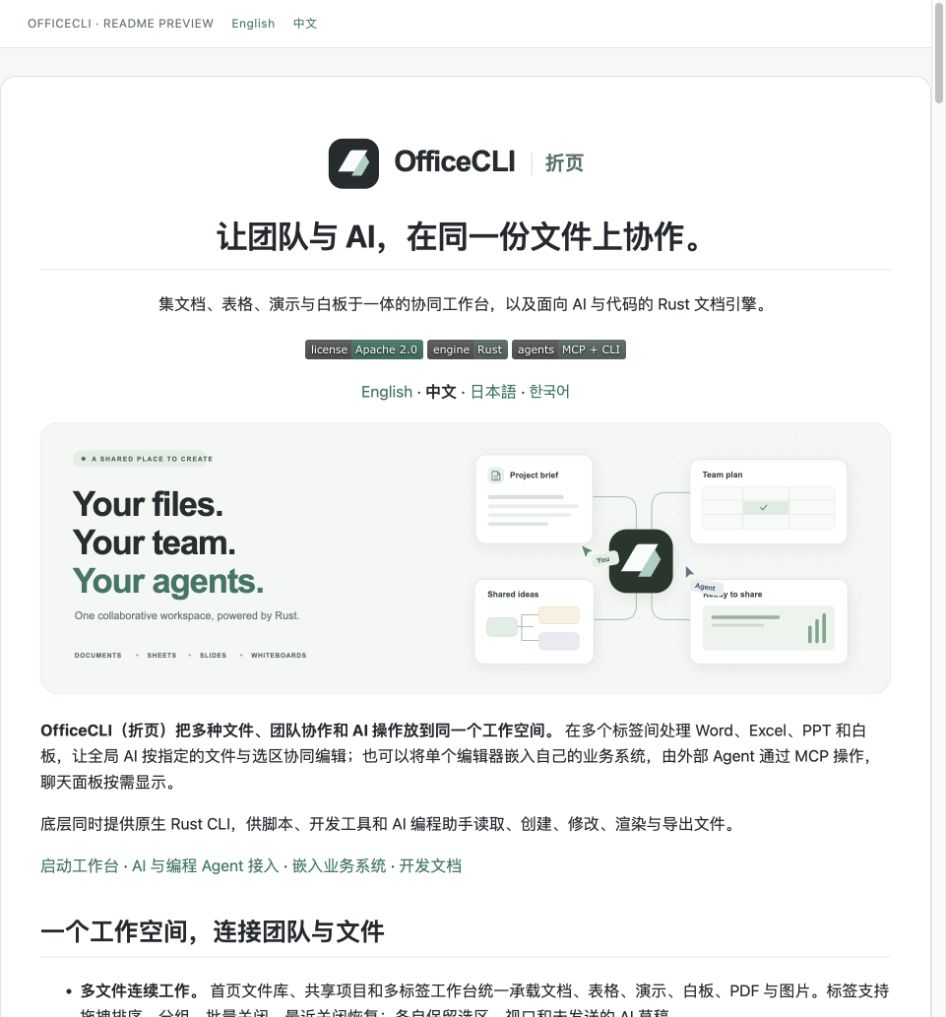
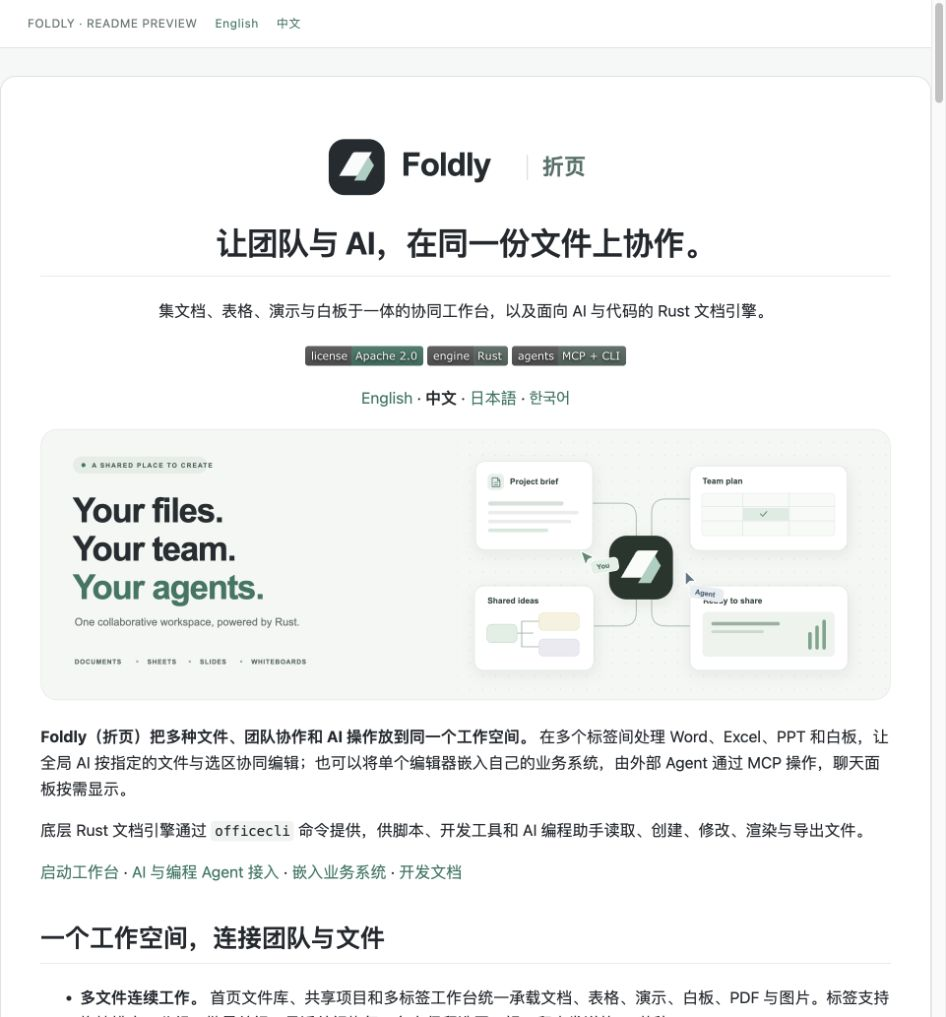
chore: rename the project to Foldly
Update README branding, original SVG assets, installer URLs and SDK/skill references to RainLib/Foldly while preserving the officecli command and package names.

Validation: 112 local README links and all JSON, JavaScript and TSX examples parse; six product screenshot checksums unchanged; English and Chinese browser previews load without broken images or horizontal overflow; Bash/Python/SVG syntax checks pass. Repository ID is unchanged and stars remain 22.

diff --git a/sdk/python/officecli.py b/sdk/python/officecli.py
@@ -34,7 +34,7 @@ import subprocess
 _IS_WIN = sys.platform.startswith("win")
 _builtin_open = open  # preserved; this module defines its own open()
 
-_INSTALL_URL = "https://raw.githubusercontent.com/RainLib/OfficeCli-rust/refs/heads/main/install.sh"
+_INSTALL_URL = "https://raw.githubusercontent.com/RainLib/Foldly/refs/heads/main/install.sh"
 _MISSING_CLI = (
     "officecli CLI not found: {bin!r} is not on PATH nor in the default install "
     "location (~/.local/bin). This SDK only forwards commands to the officecli "
@@ -297,7 +297,7 @@ def install():
     if _IS_WIN:
         raise OfficeCliError(1,
             "Automatic install isn't supported on Windows. "
-            "Download officecli from https://github.com/RainLib/OfficeCli-rust/releases "
+            "Download officecli from https://github.com/RainLib/Foldly/releases "
             "and put it on PATH.")
     print(f"Installing officecli via {_INSTALL_URL} ...", file=sys.stderr)
     r = subprocess.run(["bash", "-c", f"curl -fsSL {_INSTALL_URL} | bash"])

diff --git a/README.md b/README.md
@@ -1,5 +1,5 @@
 <p align="center">
-  <img src="docs/assets/readme/officecli-logo.svg" width="280" alt="OfficeCLI · 折页" />
+  <img src="docs/assets/readme/foldly-logo.svg" width="280" alt="Foldly · 折页" />
 </p>
 
 <h1 align="center">Documents for teams. Tools for agents.</h1>
@@ -14,11 +14,11 @@
 
 <p align="center"><b>English</b> · <a href="README_zh.md">中文</a> · <a href="README_ja.md">日本語</a> · <a href="README_ko.md">한국어</a></p>
 
-![OfficeCLI connects documents, worksheets, slides and whiteboards](docs/assets/readme/officecli-banner.svg)
+![Foldly connects documents, worksheets, slides and whiteboards](docs/assets/readme/foldly-banner.svg)
 
-**OfficeCLI brings documents, spreadsheets, presentations and whiteboards into one workspace.** Open several files, work with teammates, and let a global AI assistant operate on the files and selections you choose. Embed an editor in your own product, or connect an external agent through MCP without showing a chat panel.
+**Foldly brings documents, spreadsheets, presentations and whiteboards into one workspace.** Open several files, work with teammates, and let a global AI assistant operate on the files and selections you choose. Embed an editor in your own product, or connect an external agent through MCP without showing a chat panel.
 
-The same project also provides a native Rust CLI for reading, creating, editing and exporting files from scripts, developer tools and agent workflows.
+Its Rust document engine is exposed through the `officecli` command for reading, creating, editing and exporting files from scripts, developer tools and agent workflows.
 
 [Try the workspace](#run-the-workspace) · [Connect an agent](#connect-ai-and-coding-agents) · [Embed an editor](#embed-in-your-product) · [Documentation](#documentation)
 
@@ -251,4 +251,4 @@ See [CONTRIBUTING.md](CONTRIBUTING.md) for changes and validation requirements. 
 
 ## License and acknowledgements
 
-[Apache License 2.0](LICENSE). OfficeCLI's command model originated in [iOfficeAI/OfficeCLI](https://github.com/iOfficeAI/OfficeCLI). This repository develops a Rust engine and collaborative workspace, using projects including Excalidraw, Yjs, Tiptap and Univer under their respective licenses.
+[Apache License 2.0](LICENSE). The `officecli` command model originated in [iOfficeAI/OfficeCLI](https://github.com/iOfficeAI/OfficeCLI). This repository develops a Rust engine and collaborative workspace, using projects including Excalidraw, Yjs, Tiptap and Univer under their respective licenses.

diff --git a/README_zh.md b/README_zh.md
@@ -1,5 +1,5 @@
 <p align="center">
-  <img src="docs/assets/readme/officecli-logo.svg" width="280" alt="OfficeCLI · 折页" />
+  <img src="docs/assets/readme/foldly-logo.svg" width="280" alt="Foldly · 折页" />
 </p>
 
 <h1 align="center">让团队与 AI，在同一份文件上协作。</h1>
@@ -14,11 +14,11 @@
 
 <p align="center"><a href="README.md">English</a> · <b>中文</b> · <a href="README_ja.md">日本語</a> · <a href="README_ko.md">한국어</a></p>
 
-![OfficeCLI：连接文档、表格、演示与白板](docs/assets/readme/officecli-banner.svg)
+![Foldly：连接文档、表格、演示与白板](docs/assets/readme/foldly-banner.svg)
 
-**OfficeCLI（折页）把多种文件、团队协作和 AI 操作放到同一个工作空间。** 在多个标签间处理 Word、Excel、PPT 和白板，让全局 AI 按指定的文件与选区协同编辑；也可以将单个编辑器嵌入自己的业务系统，由外部 Agent 通过 MCP 操作，聊天面板按需显示。
+**Foldly（折页）把多种文件、团队协作和 AI 操作放到同一个工作空间。** 在多个标签间处理 Word、Excel、PPT 和白板，让全局 AI 按指定的文件与选区协同编辑；也可以将单个编辑器嵌入自己的业务系统，由外部 Agent 通过 MCP 操作，聊天面板按需显示。
 
-底层同时提供原生 Rust CLI，供脚本、开发工具和 AI 编程助手读取、创建、修改、渲染与导出文件。
+底层 Rust 文档引擎通过 `officecli` 命令提供，供脚本、开发工具和 AI 编程助手读取、创建、修改、渲染与导出文件。
 
 [启动工作台](#启动工作台) · [AI 与编程 Agent 接入](#接入-ai-与编程-agent) · [嵌入业务系统](#嵌入业务系统) · [开发文档](#开发文档)
 
@@ -251,4 +251,4 @@ npm run test:workbench --prefix apps/workspace
 
 ## 开源协议与致谢
 
-采用 [Apache License 2.0](LICENSE)。OfficeCLI 的命令模型源自 [iOfficeAI/OfficeCLI](https://github.com/iOfficeAI/OfficeCLI)。本仓库发展 Rust 文档引擎与协同工作台，并使用 Excalidraw、Yjs、Tiptap、Univer 等开源项目，遵循各自许可证。
+采用 [Apache License 2.0](LICENSE)。`officecli` 的命令模型源自 [iOfficeAI/OfficeCLI](https://github.com/iOfficeAI/OfficeCLI)。本仓库发展 Rust 文档引擎与协同工作台，并使用 Excalidraw、Yjs、Tiptap、Univer 等开源项目，遵循各自许可证。

diff --git a/README_ja.md b/README_ja.md
@@ -1,12 +1,12 @@
-<p align="center"><img src="docs/assets/readme/officecli-logo.svg" width="280" alt="OfficeCLI · 折页" /></p>
+<p align="center"><img src="docs/assets/readme/foldly-logo.svg" width="280" alt="Foldly · 折页" /></p>
 
 <h1 align="center">人と AI が、同じファイルで共同作業。</h1>
 
 <p align="center"><a href="README.md">English</a> · <a href="README_zh.md">中文</a> · <b>日本語</b> · <a href="README_ko.md">한국어</a></p>
 
-![OfficeCLI collaborative workspace](docs/assets/readme/officecli-banner.svg)
+![Foldly collaborative workspace](docs/assets/readme/foldly-banner.svg)
 
-**OfficeCLI は、文書、表計算、プレゼンテーション、ホワイトボードを一つにまとめた共同編集ワークスペースです。** 複数のファイルをタブで開き、人と AI が指定されたファイルや選択範囲を編集できます。Rust 製 CLI、MCP ツール、React 埋め込みコンポーネントも提供します。
+**Foldly は、文書、表計算、プレゼンテーション、ホワイトボードを一つにまとめた共同編集ワークスペースです。** 複数のファイルをタブで開き、人と AI が指定されたファイルや選択範囲を編集できます。Rust 製 CLI、MCP ツール、React 埋め込みコンポーネントも提供します。
 
 このページは概要です。起動手順、コード例、対応範囲は [English](README.md) または [中文](README_zh.md) の完全版をご覧ください。
 

diff --git a/README_ko.md b/README_ko.md
@@ -1,12 +1,12 @@
-<p align="center"><img src="docs/assets/readme/officecli-logo.svg" width="280" alt="OfficeCLI · 折页" /></p>
+<p align="center"><img src="docs/assets/readme/foldly-logo.svg" width="280" alt="Foldly · 折页" /></p>
 
 <h1 align="center">사람과 AI가 같은 파일에서 함께 작업합니다.</h1>
 
 <p align="center"><a href="README.md">English</a> · <a href="README_zh.md">中文</a> · <a href="README_ja.md">日本語</a> · <b>한국어</b></p>
 
-![OfficeCLI collaborative workspace](docs/assets/readme/officecli-banner.svg)
+![Foldly collaborative workspace](docs/assets/readme/foldly-banner.svg)
 
-**OfficeCLI는 문서, 스프레드시트, 프레젠테이션과 화이트보드를 하나로 연결하는 협업 작업 공간입니다.** 여러 파일을 탭으로 열고, 사람과 AI가 지정된 파일 및 선택 영역을 편집할 수 있습니다. Rust CLI, MCP 도구와 React 임베드 컴포넌트도 제공합니다.
+**Foldly는 문서, 스프레드시트, 프레젠테이션과 화이트보드를 하나로 연결하는 협업 작업 공간입니다.** 여러 파일을 탭으로 열고, 사람과 AI가 지정된 파일 및 선택 영역을 편집할 수 있습니다. Rust CLI, MCP 도구와 React 임베드 컴포넌트도 제공합니다.
 
 이 페이지는 개요입니다. 전체 실행 방법, 코드 예제와 지원 범위는 [English](README.md) 또는 [中文](README_zh.md) 문서를 확인하세요.
 

diff --git a/skills/officecli-word-form/SKILL.md b/skills/officecli-word-form/SKILL.md
@@ -15,7 +15,7 @@ description: "Use this skill to create fillable Word forms (.docx) with real Con
 
 ```bash
 if ! command -v officecli >/dev/null 2>&1; then
-    curl -fsSL https://raw.githubusercontent.com/RainLib/OfficeCli-rust/main/install.sh | bash
+    curl -fsSL https://raw.githubusercontent.com/RainLib/Foldly/main/install.sh | bash
 fi
 ```
 
@@ -23,7 +23,7 @@ fi
 
 ```powershell
 if (-not (Get-Command officecli -ErrorAction SilentlyContinue)) {
-    irm https://raw.githubusercontent.com/RainLib/OfficeCli-rust/main/install.ps1 | iex
+    irm https://raw.githubusercontent.com/RainLib/Foldly/main/install.ps1 | iex
 }
 ```
 
@@ -31,7 +31,7 @@ Verify: `officecli --version`
 
 If `officecli` is still not found after first install, open a new terminal and run the verify command again.
 
-If the install command above fails (e.g. blocked by security policy, no network access, or insufficient permissions), install manually — download the binary for your platform from https://github.com/RainLib/OfficeCli-rust/releases — then re-run the verify command.
+If the install command above fails (e.g. blocked by security policy, no network access, or insufficient permissions), install manually — download the binary for your platform from https://github.com/RainLib/Foldly/releases — then re-run the verify command.
 
 ## Help-First Rule
 

diff --git a/skills/morph-ppt/SKILL.md b/skills/morph-ppt/SKILL.md
@@ -13,10 +13,10 @@ When the pptx base rules cover it, the text here says `→ see pptx v2 §X`. Rea
 
 If `officecli` is missing:
 
-- **macOS / Linux**: `curl -fsSL https://raw.githubusercontent.com/RainLib/OfficeCli-rust/main/install.sh | bash`
-- **Windows (PowerShell)**: `irm https://raw.githubusercontent.com/RainLib/OfficeCli-rust/main/install.ps1 | iex`
+- **macOS / Linux**: `curl -fsSL https://raw.githubusercontent.com/RainLib/Foldly/main/install.sh | bash`
+- **Windows (PowerShell)**: `irm https://raw.githubusercontent.com/RainLib/Foldly/main/install.ps1 | iex`
 
-Verify with `officecli --version` (open a new terminal if PATH hasn't picked up). If install fails, download a binary from https://github.com/RainLib/OfficeCli-rust/releases.
+Verify with `officecli --version` (open a new terminal if PATH hasn't picked up). If install fails, download a binary from https://github.com/RainLib/Foldly/releases.
 
 ## ⚠ Help-First Rule
 

diff --git a/skills/officecli-academic-paper/SKILL.md b/skills/officecli-academic-paper/SKILL.md
@@ -13,10 +13,10 @@ When the docx base rules cover it, the text here says `→ see docx v2 §X`. Rea
 
 If `officecli` is missing:
 
-- **macOS / Linux**: `curl -fsSL https://raw.githubusercontent.com/RainLib/OfficeCli-rust/main/install.sh | bash`
-- **Windows (PowerShell)**: `irm https://raw.githubusercontent.com/RainLib/OfficeCli-rust/main/install.ps1 | iex`
+- **macOS / Linux**: `curl -fsSL https://raw.githubusercontent.com/RainLib/Foldly/main/install.sh | bash`
+- **Windows (PowerShell)**: `irm https://raw.githubusercontent.com/RainLib/Foldly/main/install.ps1 | iex`
 
-Verify with `officecli --version` (open a new terminal if PATH hasn't picked up). If install fails, download a binary from https://github.com/RainLib/OfficeCli-rust/releases.
+Verify with `officecli --version` (open a new terminal if PATH hasn't picked up). If install fails, download a binary from https://github.com/RainLib/Foldly/releases.
 
 ## ⚠ Help-First Rule
 

diff --git a/skills/officecli-data-dashboard/SKILL.md b/skills/officecli-data-dashboard/SKILL.md
@@ -11,10 +11,10 @@ A dashboard is not "a spreadsheet with charts". It is a composition: **one Dashb
 
 If `officecli` is missing:
 
-- **macOS / Linux**: `curl -fsSL https://raw.githubusercontent.com/RainLib/OfficeCli-rust/main/install.sh | bash`
-- **Windows (PowerShell)**: `irm https://raw.githubusercontent.com/RainLib/OfficeCli-rust/main/install.ps1 | iex`
+- **macOS / Linux**: `curl -fsSL https://raw.githubusercontent.com/RainLib/Foldly/main/install.sh | bash`
+- **Windows (PowerShell)**: `irm https://raw.githubusercontent.com/RainLib/Foldly/main/install.ps1 | iex`
 
-Verify with `officecli --version` (open a new terminal if PATH hasn't picked up). If install fails, download a binary from https://github.com/RainLib/OfficeCli-rust/releases.
+Verify with `officecli --version` (open a new terminal if PATH hasn't picked up). If install fails, download a binary from https://github.com/RainLib/Foldly/releases.
 
 ## ⚠ Help-First Rule
 

diff --git a/skills/officecli-pitch-deck/SKILL.md b/skills/officecli-pitch-deck/SKILL.md
@@ -13,10 +13,10 @@ When the pptx base rules cover it, the text here says `→ see pptx v2 §X`. Rea
 
 If `officecli` is missing:
 
-- **macOS / Linux**: `curl -fsSL https://raw.githubusercontent.com/RainLib/OfficeCli-rust/main/install.sh | bash`
-- **Windows (PowerShell)**: `irm https://raw.githubusercontent.com/RainLib/OfficeCli-rust/main/install.ps1 | iex`
+- **macOS / Linux**: `curl -fsSL https://raw.githubusercontent.com/RainLib/Foldly/main/install.sh | bash`
+- **Windows (PowerShell)**: `irm https://raw.githubusercontent.com/RainLib/Foldly/main/install.ps1 | iex`
 
-Verify with `officecli --version` (open a new terminal if PATH hasn't picked up). If install fails, download a binary from https://github.com/RainLib/OfficeCli-rust/releases.
+Verify with `officecli --version` (open a new terminal if PATH hasn't picked up). If install fails, download a binary from https://github.com/RainLib/Foldly/releases.
 
 ## ⚠ Help-First Rule
 

diff --git a/skills/officecli-docx/SKILL.md b/skills/officecli-docx/SKILL.md
@@ -9,10 +9,10 @@ description: "Use this skill any time a .docx file is involved -- as input, outp
 
 If `officecli` is missing:
 
-- **macOS / Linux**: `curl -fsSL https://raw.githubusercontent.com/RainLib/OfficeCli-rust/main/install.sh | bash`
-- **Windows (PowerShell)**: `irm https://raw.githubusercontent.com/RainLib/OfficeCli-rust/main/install.ps1 | iex`
+- **macOS / Linux**: `curl -fsSL https://raw.githubusercontent.com/RainLib/Foldly/main/install.sh | bash`
+- **Windows (PowerShell)**: `irm https://raw.githubusercontent.com/RainLib/Foldly/main/install.ps1 | iex`
 
-Verify with `officecli --version` (open a new terminal if PATH hasn't picked up). If install fails, download a binary from https://github.com/RainLib/OfficeCli-rust/releases.
+Verify with `officecli --version` (open a new terminal if PATH hasn't picked up). If install fails, download a binary from https://github.com/RainLib/Foldly/releases.
 
 ## ⚠ Help-First Rule
 

diff --git a/skills/officecli-pdf/SKILL.md b/skills/officecli-pdf/SKILL.md
@@ -9,10 +9,10 @@ description: "Use this skill any time a .pdf file is involved -- as input, outpu
 
 If `officecli` is missing:
 
-- **macOS / Linux**: `curl -fsSL https://raw.githubusercontent.com/RainLib/OfficeCli-rust/main/install.sh | bash`
-- **Windows (PowerShell)**: `irm https://raw.githubusercontent.com/RainLib/OfficeCli-rust/main/install.ps1 | iex`
+- **macOS / Linux**: `curl -fsSL https://raw.githubusercontent.com/RainLib/Foldly/main/install.sh | bash`
+- **Windows (PowerShell)**: `irm https://raw.githubusercontent.com/RainLib/Foldly/main/install.ps1 | iex`
 
-Verify with `officecli --version` (open a new terminal if PATH hasn't picked up). If install fails, download a binary from https://github.com/RainLib/OfficeCli-rust/releases.
+Verify with `officecli --version` (open a new terminal if PATH hasn't picked up). If install fails, download a binary from https://github.com/RainLib/Foldly/releases.
 
 ## ⚠ Help-First Rule
 
